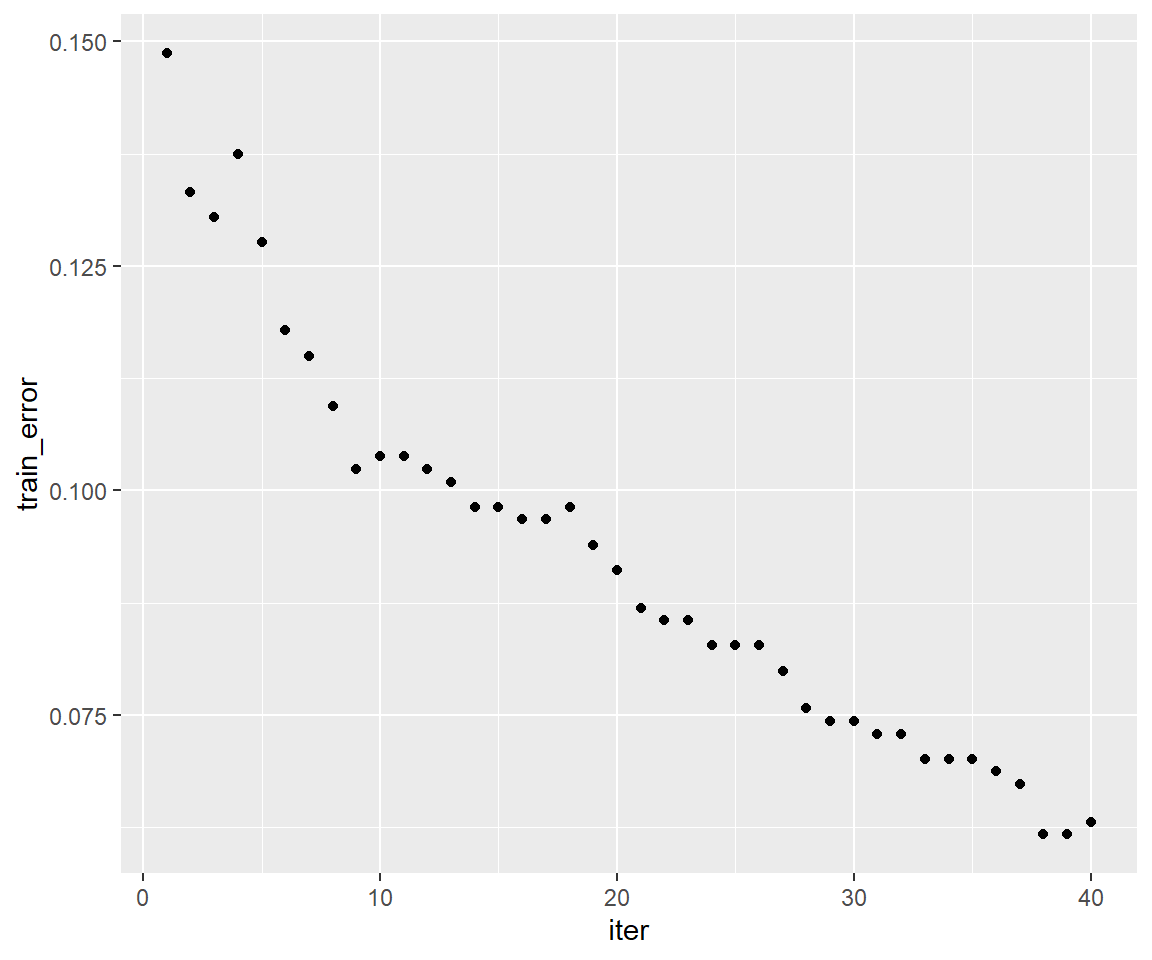
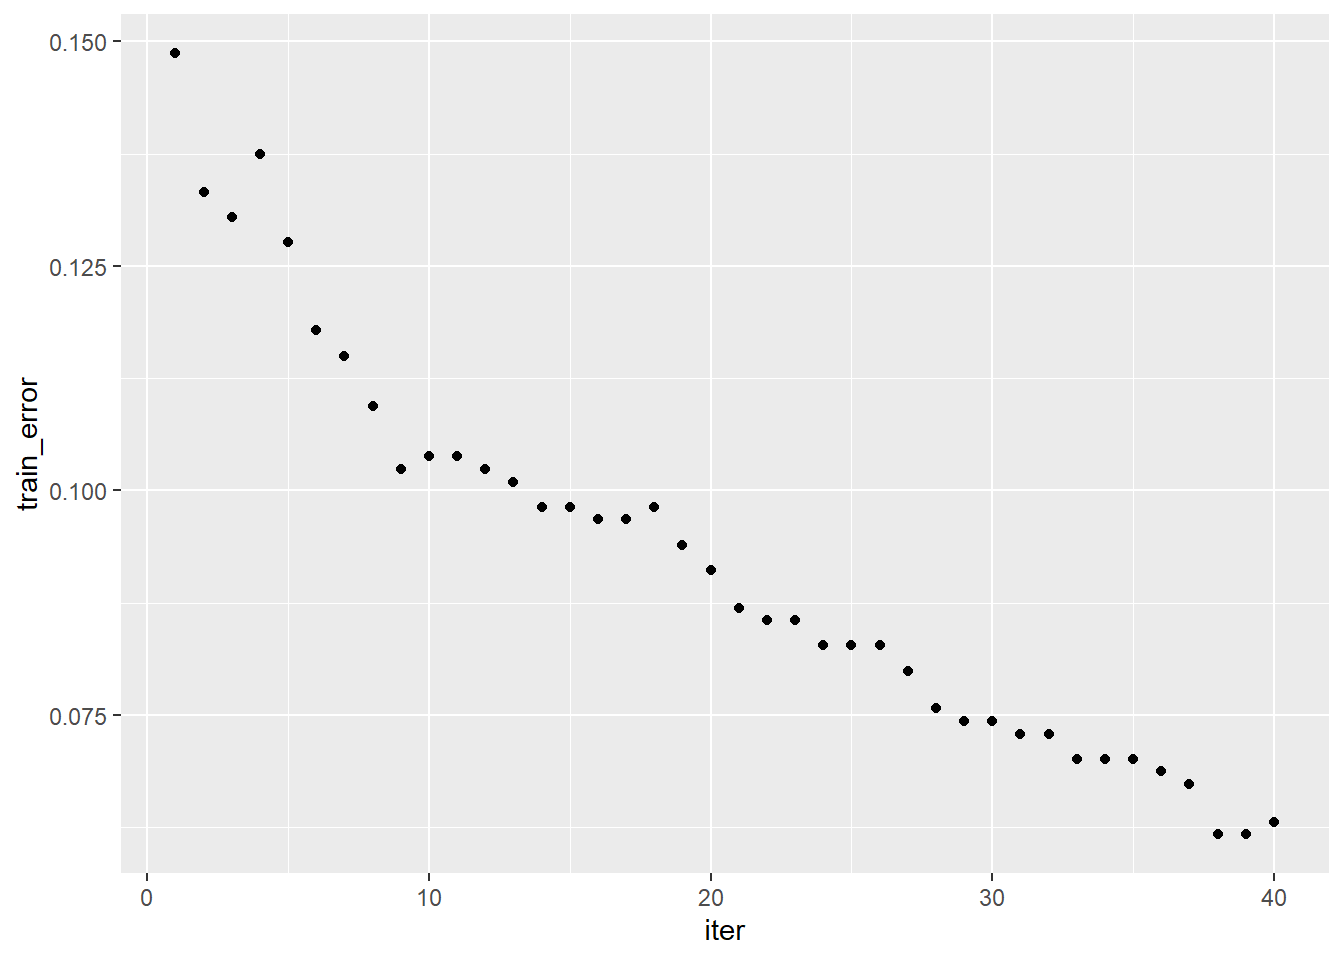
add files
Former-commit-id: 73a6778896e90f98965a2f122eae1cf33db5109b

diff --git a/content/post/xgboost/xgboost.html b/content/post/xgboost/xgboost.html
@@ -5,7 +5,7 @@ date: '2020-01-05'
 summary: ' In this paper we learn how to implement xgboost model to predict the titanic data...'
 bibliography: "bibliography.bib"
 output:
-  blogdown::html_page:
+  html_document:
     toc: true
     toc_depth: 1
     fig_width: 6
@@ -93,42 +93,42 @@ We will opt for random forest method since in most cases can be the best choice.
 ggplot(mydata,aes(Sex,Survived,color=Sex))+
   geom_point()+
   geom_jitter()</code></pre>
-<p><img src="/post/xgboost/xgboost_files/figure-html/unnamed-chunk-5-1.png" width="576" /></p>
+<p><img src="/post/xgboost/xgboost_files/figure-html/unnamed-chunk-5-1.png" width="672" /></p>
 <p>The left side of the plot shows that higher fraction of females survived, whreas the right side shows the reverse situation for males where most of them died. We can induce from this plot that, ceteris paribus, this predictor is likely to be relevant for prediction.</p>
 <pre class="r"><code>ggplot(mydata,aes(Pclass,Survived,color=Pclass))+
   geom_point()+
   geom_jitter()</code></pre>
-<p><img src="/post/xgboost/xgboost_files/figure-html/unnamed-chunk-6-1.png" width="576" /></p>
+<p><img src="/post/xgboost/xgboost_files/figure-html/unnamed-chunk-6-1.png" width="672" /></p>
 <p>in this plot most of the first class passengers survived in contrast with the third class passegers where most of them died. However, for the second class, it seems equally ballanced. Again this predictor also can be relevant.</p>
 <pre class="r"><code>ggplot(mydata,aes(SibSp,Survived,color=SibSp))+
   geom_point()+
   geom_jitter()</code></pre>
-<p><img src="/post/xgboost/xgboost_files/figure-html/unnamed-chunk-7-1.png" width="576" /></p>
+<p><img src="/post/xgboost/xgboost_files/figure-html/unnamed-chunk-7-1.png" width="672" /></p>
 <p>This predictor refers to the number of siblings a passenger has. It seems to be equally distibuted given the taregt variable, and hence can be highlly irrelvant. In other words, knowing the number of siblings of a particular passenger does not help to predict if this passenger survived or died.</p>
 <pre class="r"><code>ggplot(mydata,aes(Parch,Survived,color=Parch))+
   geom_point()+
   geom_jitter()</code></pre>
-<p><img src="/post/xgboost/xgboost_files/figure-html/unnamed-chunk-8-1.png" width="576" /></p>
+<p><img src="/post/xgboost/xgboost_files/figure-html/unnamed-chunk-8-1.png" width="672" /></p>
 <p>This predictor refers to the number of parents and children a passenger has. It seems that this predictor is slightly dsicriminative if we look closely at the level 0, passengeers with no parents or children.</p>
 <pre class="r"><code>ggplot(mydata,aes(Embarked,Survived,color=Embarked))+
   geom_point()+
   geom_jitter()</code></pre>
-<p><img src="/post/xgboost/xgboost_files/figure-html/unnamed-chunk-9-1.png" width="576" /></p>
+<p><img src="/post/xgboost/xgboost_files/figure-html/unnamed-chunk-9-1.png" width="672" /></p>
 <p>We see that a passsenger who is embarked from the port <strong>S</strong> is slightly highly to died, while the other ports seem to be eequally distributed.</p>
 <p>For numeric variables we use the empirical densitiy givan the target variable as follows.</p>
 <pre class="r"><code>ggplot(mydata[complete.cases(mydata),], aes(Age,fill=as.factor(Survived)))+
   geom_density(alpha=.5)</code></pre>
-<p><img src="/post/xgboost/xgboost_files/figure-html/unnamed-chunk-10-1.png" width="576" /></p>
+<p><img src="/post/xgboost/xgboost_files/figure-html/unnamed-chunk-10-1.png" width="672" /></p>
 <p>We see that some signicant overlaping between the two conditional distribution may indicating less relevance related to this variable.</p>
 <pre class="r"><code>ggplot(mydata, aes(Fare,fill=as.factor(Survived)))+
   geom_density(alpha=.5)</code></pre>
-<p><img src="/post/xgboost/xgboost_files/figure-html/unnamed-chunk-11-1.png" width="576" /></p>
+<p><img src="/post/xgboost/xgboost_files/figure-html/unnamed-chunk-11-1.png" width="672" /></p>
 <p>For this variables the conditional distribution are different, we see a spike close to zero reflecting the more death among third class.</p>
 <p>we can also plot two predictors against eeach other. For instance let’s try with the two predictors, Sex and Pclass:</p>
 <pre class="r"><code>ggplot(mydata,aes(Sex,Pclass,color=as.factor(Survived)))+
   geom_point(col=&quot;green&quot;,pch=16,cex=7)+
   geom_jitter()</code></pre>
-<p><img src="/post/xgboost/xgboost_files/figure-html/unnamed-chunk-12-1.png" width="576" /></p>
+<p><img src="/post/xgboost/xgboost_files/figure-html/unnamed-chunk-12-1.png" width="672" /></p>
 <p>The majority of the survived females (blue points on the left) came from the first and the second class, while the majority of died males (red points on the right) came from the third class.</p>
 </div>
 <div id="data-partition" class="section level2">
@@ -172,16 +172,18 @@ dim(train_data)</code></pre>
 <pre><code>## [1] 713</code></pre>
 <p>Now we bind the predictors, contained in the train_data , with the train_label vector as <strong>xgb.DMatrix</strong> object as follows</p>
 <pre class="r"><code>train_final&lt;-xgb.DMatrix(data = train_data,label=train_label)</code></pre>
-<p>To train the model you must provide the inputs and specify the argument values if we do not want to keep the following values:
-* objective: for binary classification we use <strong>binary:logistic</strong>
-* eta (default=0.3): The learning rate.
-* gamma (default=0): also called min_split_loss, the minimum loss required for spliting further a particular node.
-* max_depth(default=6): the maximum depth of the tree.
-* min_child_weight(default=1): the minimum number of instances required in a node under which the node will be leaf.
-* subsample (default=1): with the default the model uses all the data at each tree, if 0.7 for instance, then the model randomly sample 70% og the data at each iteration, doing so we fight the overfiting problem.
-* colsample_bytree (default=1, select all columns): subsample ratio of columns at each iteration.
-* nthreads (default=2): number of cpu’s used in parallel processing.
-* nrounds : the number of boosting iterations.</p>
+<p>To train the model you must provide the inputs and specify the argument values if we do not want to keep the following values:</p>
+<ul>
+<li>objective: for binary classification we use <strong>binary:logistic</strong></li>
+<li>eta (default=0.3): The learning rate.</li>
+<li>gamma (default=0): also called min_split_loss, the minimum loss required for spliting further a particular node.</li>
+<li>max_depth(default=6): the maximum depth of the tree.</li>
+<li>min_child_weight(default=1): the minimum number of instances required in a node under which the node will be leaf.</li>
+<li>subsample (default=1): with the default the model uses all the data at each tree, if 0.7 for instance, then the model randomly sample 70% of the data at each iteration, doing so we fight the overfiting problem.</li>
+<li>colsample_bytree (default=1, select all columns): subsample ratio of columns at each iteration.</li>
+<li>nthreads (default=2): number of cpu’s used in parallel processing.</li>
+<li>nrounds : the number of boosting iterations.</li>
+</ul>
 <p>You can check the whole parameters by typing <strong>?xgboost</strong>.</p>
 <p>It should be noted that the input data can feed into the model by two ways:
 It the data is of class <strong>xgb.DMatrix</strong> that contain both the predictors and the label, as we did, then we do not use the <strong>label</strong> argument. Otherwise, with any other class we provide both argument data and label.</p>
@@ -232,7 +234,7 @@ It the data is of class <strong>xgb.DMatrix</strong> that contain both the predi
 <pre class="r"><code> mymodel$evaluation_log %&gt;%   
   ggplot(aes(iter, train_error))+
   geom_point()</code></pre>
-<p><img src="/post/xgboost/xgboost_files/figure-html/unnamed-chunk-21-1.png" width="576" /></p>
+<p><img src="/post/xgboost/xgboost_files/figure-html/unnamed-chunk-21-1.png" width="672" /></p>
 <p>To evaluate the model we will use the test data that should follow all the above steps as the training data exept for the missing values. since the test set is only used to evaluate the model so we will remove all the missing values.</p>
 <pre class="r"><code>test1 &lt;- test[complete.cases(test),]
 test2&lt;-sparse.model.matrix(Survived ~. -1,data=test1)

diff --git a/content/courses/cnnmodel/imageCNN.html b/content/courses/cnnmodel/imageCNN.html
@@ -2,6 +2,7 @@
 title: "Predicting images using Convolutional neural network"
 author: "Abdelkader Metales"
 date: "2020-12-03"
+summary: 'In this paper we will make use of the convolutional neural network, the most widely deep learning method used for image classification...' 
 output:
   blogdown::html_page:
     toc: true

diff --git a/content/courses/_index.md b/content/courses/_index.md
@@ -1,8 +1,69 @@
----
-header:
-  caption: ""
-  image: ""
-title: keras
-type: "post"
----
++++
+# A Recent Blog Posts section created with the Pages widget.
+# This section displays recent blog posts from `content/post/`.
+
+widget = "pages"  # See https://sourcethemes.com/academic/docs/page-builder/
+headless = true  # This file represents a page section.
+active = true  # Activate this widget? true/false
+weight = 1  # Order that this section will appear.
+
+title = "Keras"
+subtitle = ""
+
+[content]
+  # Page type to display. E.g. post, talk, or publication.
+  page_type = "post"
+  
+  # Choose how much pages you would like to display (0 = all pages)
+  count = 0
+  
+  # Choose how many pages you would like to offset by
+  offset = 0
+
+  # Page order. Descending (desc) or ascending (asc) date.
+  order = "desc"
+
+  # Filter posts by a taxonomy term.
+  [content.filters]
+    tag = ""
+    category = ""
+    publication_type = ""
+    author = ""
+    exclude_featured = false
+  
+[design]
+  # Toggle between the various page layout types.
+  #   1 = List
+  #   2 = Compact
+  #   3 = Card
+  #   4 = Citation (publication only)
+  view = 1
+  
+[design.background]
+  # Apply a background color, gradient, or image.
+  #   Uncomment (by removing `#`) an option to apply it.
+  #   Choose a light or dark text color by setting `text_color_light`.
+  #   Any HTML color name or Hex value is valid.
+  
+  # Background color.
+  # color = "navy"
+  
+  # Background gradient.
+  # gradient_start = "DeepSkyBlue"
+  # gradient_end = "SkyBlue"
+  
+  # Background image.
+  # image = "background.jpg"  # Name of image in `static/img/`.
+  # image_darken = 0.6  # Darken the image? Range 0-1 where 0 is transparent and 1 is opaque.
+
+  # Text color (true=light or false=dark).
+  # text_color_light = true  
+  
+[advanced]
+ # Custom CSS. 
+ css_style = ""
+ 
+ # CSS class.
+ css_class = ""
++++
 
